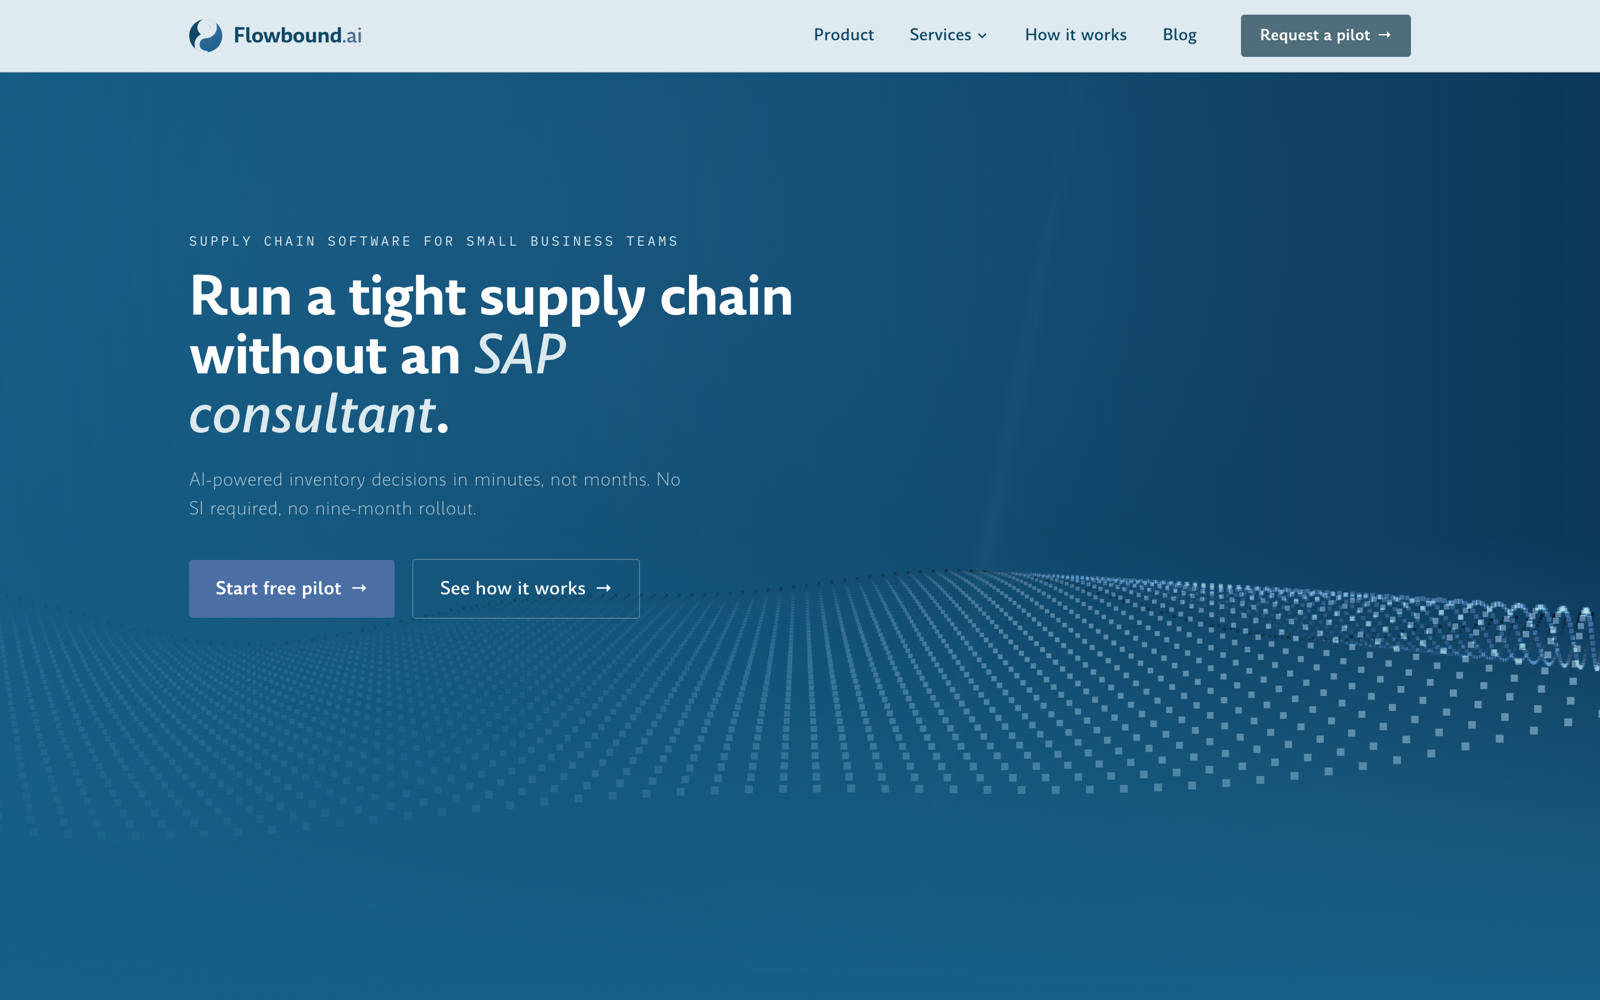
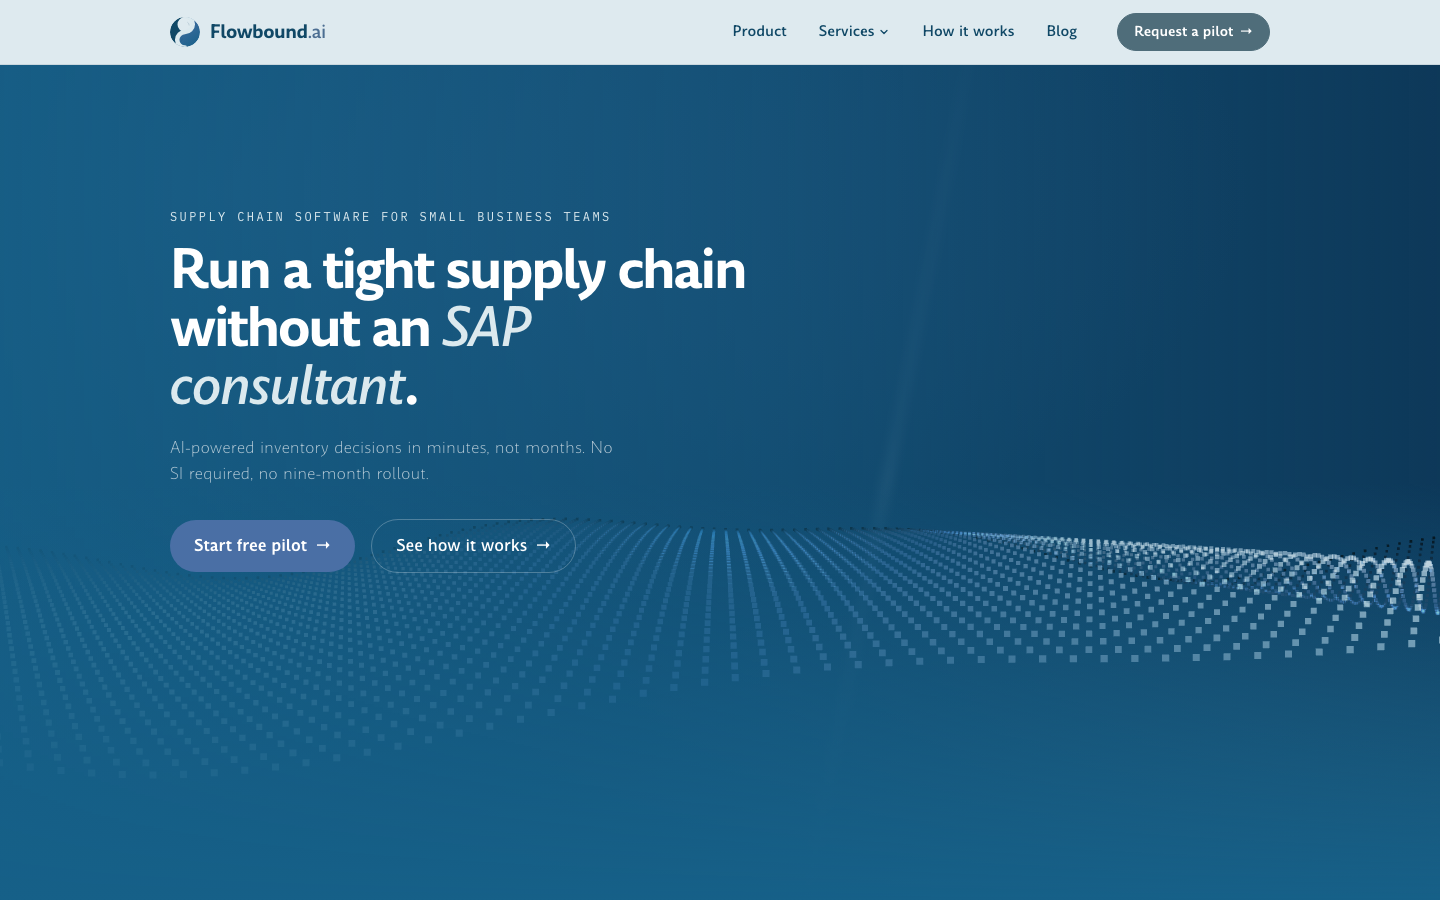
Refresh README for the public repo: current stats, new highlights
- Fixed stale numbers: 40 posts/7 categories (was 21/8), 143 built
  routes (was 86, an old count that predated OG-image endpoints).
- Added two highlights from the sitewide UI refinement: benchmarking
  a reference site by reading its actual code before proposing
  anything, and catching a real WCAG contrast failure (1.4:1) in a
  new scroll effect before it shipped.
- Noted the button-shape convention change (two shapes -> one pill)
  as a deliberate, tracked revision, not drift.
- Refreshed the homepage screenshot to match current buttons/cards.

diff --git a/README.md b/README.md
@@ -16,8 +16,9 @@ the fast alternative to an SAP implementation. Live at
 
 A static, server-render-free marketing site (Astro, `output: "static"`) covering a homepage, a
 product page, seven dedicated capability pages, three narrative service pages, a fully filterable
-blog (21 posts across 8 categories), and supporting pages, 86 routes total. Built and maintained
-solo, end to end: architecture, visual design system, copywriting, SEO, and production deploys.
+blog (40 posts across 7 categories), and supporting pages, 143 built routes total (including a
+uniquely generated OG share image per blog post). Built and maintained solo, end to end:
+architecture, visual design system, copywriting, SEO, and production deploys.
 
 No backend, no CMS, no JS framework runtime shipped by default. The interesting engineering is
 in what that constraint forces: hand-rolled canvas/WebGL animation, a real content pipeline for
@@ -51,11 +52,30 @@ explicitly emulating `reducedMotion: 'no-preference'` to catch a real class of b
 machine's OS-level accessibility setting was silently masking (default screenshots always showed
 the static fallback frame, never the live animation).
 
-**A repeatable SEO content pipeline, not ad hoc blog posts.** All 21 posts were rewritten through
-a defined process: competitor-article research against actual top-ranking pages (not vendor
-homepages), a content-gap analysis, a featured-snippet-targeted outline, a draft in a consistent
-voice, an EEAT self-review, and internal links woven into real sentences rather than dropped in as
-a bare list. It's the standing default for new posts now, not a one-time cleanup.
+**A repeatable SEO content pipeline, not ad hoc blog posts.** Every post (40 as of this writing,
+up from an original batch of 21) goes through the same defined process: competitor-article
+research against actual top-ranking pages (not vendor homepages), a content-gap analysis, a
+featured-snippet-targeted outline, a draft in a consistent voice, an EEAT self-review, and
+internal links woven into real sentences rather than dropped in as a bare list. It's the standing
+default, not a one-time cleanup pass.
+
+**A competitor benchmark translated into a system, not a copy.** Asked to bring the site's polish
+up to a reference competitor's level, the first step was reading that reference's actual shipped
+code (`curl`, not just looking at it in a browser), which showed it runs no animation framework at
+all, its polish came from typography discipline and a restrained, thin-bordered card language, not
+tooling sophistication. That ruled out reaching for a new dependency and turned into three
+concrete, sitewide conventions instead: every button unified to one pill shape, headline tracking
+tightened uniformly, and a flatter thin-border card treatment rolled out across every page except
+one deliberate exception, a card design on the blog that was already its own separate, considered
+piece of work and would have been wrongly flattened by a blanket rule.
+
+**Caught its own accessibility regression before it shipped.** Building a new scroll-linked text
+effect for the homepage, the first version dimmed unrevealed words via `opacity`, which measured
+out to a 1.4:1 contrast ratio against the 4.5:1 WCAG AA minimum for body text, genuinely
+unreadable, not just suboptimal. Rebuilt using `color-mix()` between two independently
+contrast-checked colors instead of fading toward the page background, the fix an opacity-only
+approach structurally can't reach. Verified with real contrast math before and after, not a visual
+judgment call either time.
 
 **Data-driven where it matters, hand-authored where it doesn't.** `src/data/services.ts` is the
 single source of truth for the services nav dropdown, the `/services` page content, and that
@@ -72,10 +92,13 @@ cause (not just "fixed"), and every explicit constraint, updated after each sess
 the start of the next. It is long because the project is real, not because it was padded.
 
 The workflow underneath it is closer to running a rigorous code review than "vibe coding": a
-constraint is stated once and expected to hold (no em dashes anywhere in the codebase, square-ish
-corners as the default border radius, contrast checked against real WCAG math rather than eyeballed),
-UI changes are verified against a running browser instead of trusted from a green build, and
-mistakes are recorded with their root cause so the same class of bug does not recur. A few are
+constraint is stated once and expected to hold (no em dashes anywhere in the codebase, contrast
+checked against real WCAG math rather than eyeballed), UI changes are verified against a running
+browser instead of trusted from a green build, and mistakes are recorded with their root cause so
+the same class of bug does not recur. Constraints also get revisited deliberately, not just set and
+forgotten: the button shape went from a two-shape system to one unified pill shape sitewide in a
+later pass, a real, intentional convention change, tracked as one in `CLAUDE.md` rather than left
+looking like drift. A few are
 documented in `CLAUDE.md` in detail: an `IntersectionObserver` that silently never fires because
 `clip-path` was applied directly to the observed element, and a set of SVG icon glyphs where two
 strokes met at an exact shared coordinate and compounded into a visible dark artifact only at
@@ -89,7 +112,7 @@ screenshot.
 | Framework | [Astro](https://astro.build) 7, static output, zero client-side JS framework runtime by default |
 | Language | TypeScript, strict mode |
 | Styling | Tailwind CSS 3, a custom two-palette design system (see `tailwind.config.js`) |
-| 3D / WebGL | [three.js](https://threejs.org), scoped to 2 of 86 pages (see highlights above) |
+| 3D / WebGL | [three.js](https://threejs.org), scoped to 2 of 143 pages (see highlights above) |
 | Animation | Hand-written Canvas 2D (12 bespoke hero compositions), `IntersectionObserver`-driven scroll reveals, vanilla TS, no animation library |
 | Content | Astro Content Layer API, Markdown blog posts, schema-validated via `src/content.config.ts` |
 | Fonts | Satoshi, IBM Plex Mono, Amulya, all self-hosted `.woff2`, no third-party font CDN |
@@ -126,7 +149,7 @@ environment variables are required.
 
 ## Pages
 
-86 built routes. The core set:
+143 built routes. The core set:
 
 | Route | File | Notes |
 |---|---|---|
@@ -163,7 +186,7 @@ automatically.
 
 ```
 src/
-├── pages/            One file per route (86 built routes)
+├── pages/            One file per route (143 built routes)
 ├── layouts/           BaseLayout.astro: shared shell (nav, footer, font preloads, Seo)
 ├── components/        Nav, Footer, logo, homepage sections, one animated hero
 │                       background component per secondary page
